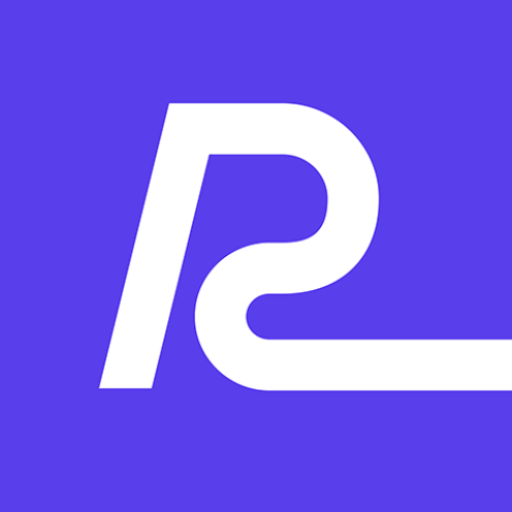
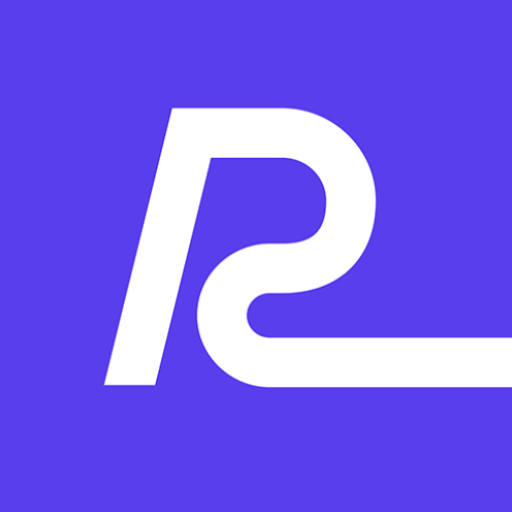
[fix] 런쳐아이콘사이즈 69 -> 67%

diff --git a/app/src/main/java/com/runnect/runnect/presentation/MainActivity.kt b/app/src/main/java/com/runnect/runnect/presentation/MainActivity.kt
@@ -139,7 +139,6 @@ class MainActivity : BindingActivity<ActivityMainBinding>(R.layout.activity_main
 
                 isChangeToStorage = false
                 isChangeToDiscover = false
-                addToBackStack(null) // 이전 프래그먼트를 백 스택에 추가하지 않음
                 replace<MyPageFragment>(R.id.fl_main)
             }
             else -> IllegalArgumentException("${this::class.java.simpleName} Not found menu item id")
